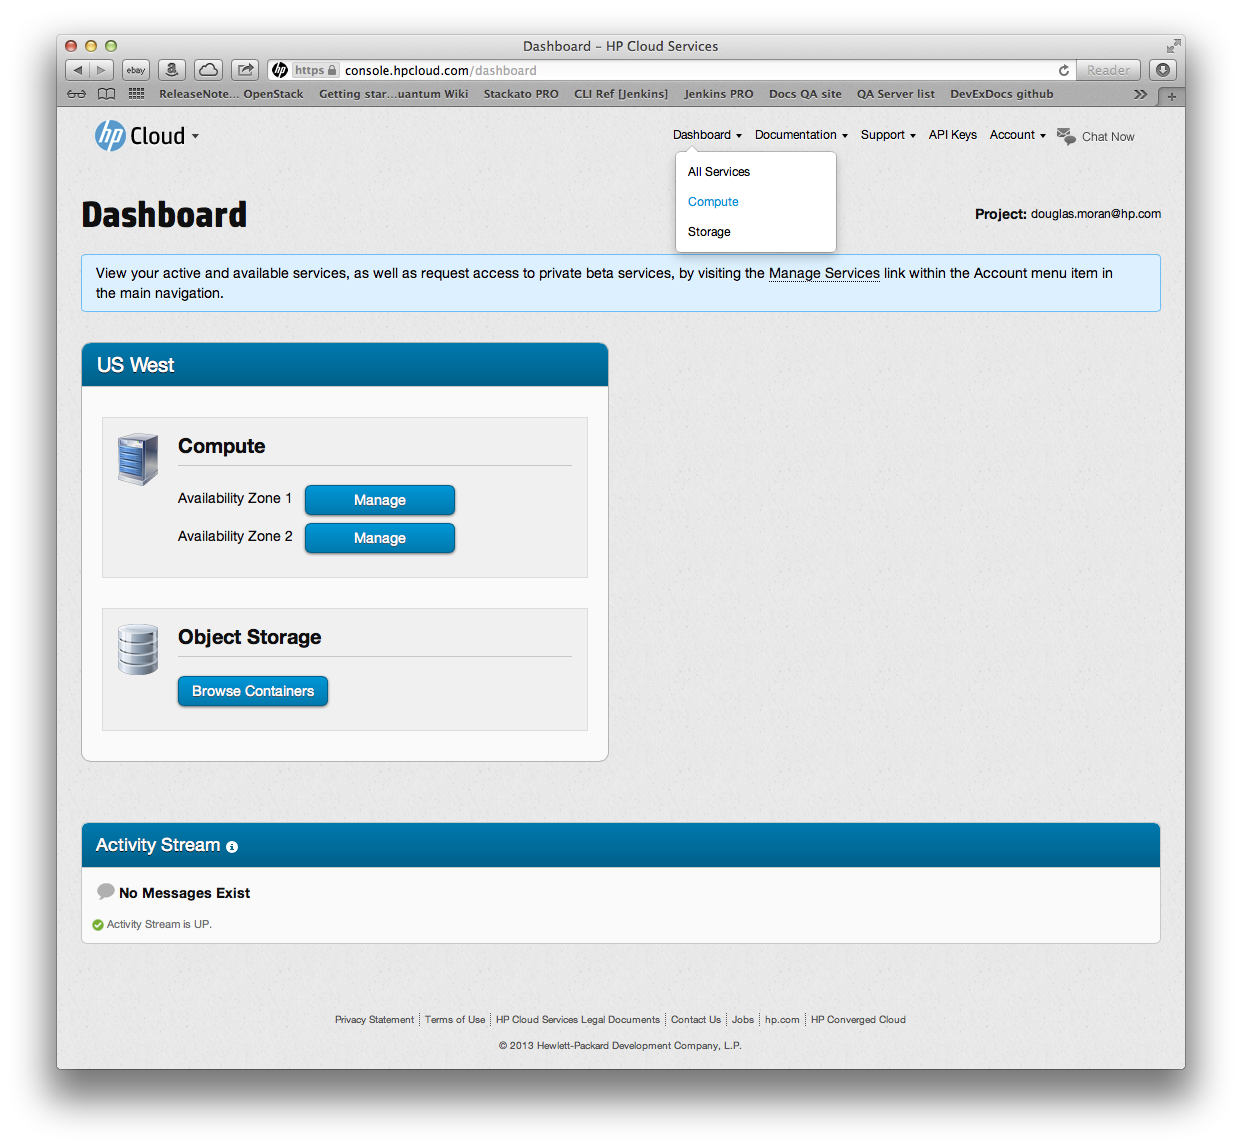
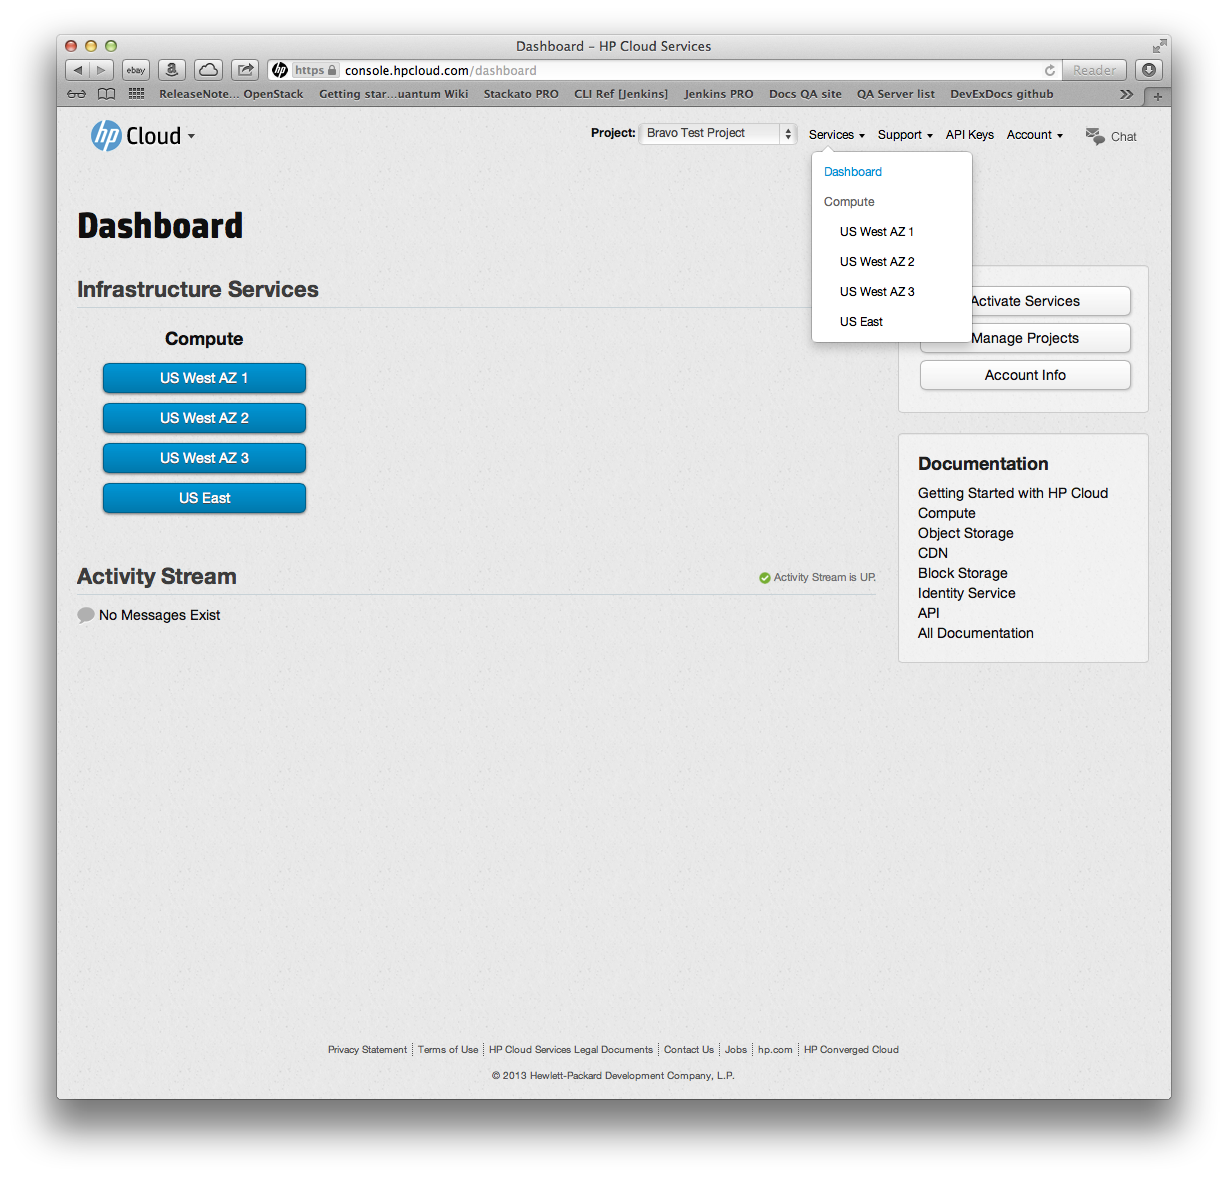
more screen shot changes

diff --git a/mc.dashboard.md b/mc.dashboard.md
@@ -11,30 +11,29 @@ This page provides you with an overview of the main management console (MC) dash
 
 * [Overview of the dashboard](#Overview)
 * [Compute pane](#compute)
-* [Object storage pane](#object-storage)
 * [Activity stream pane](#activitystream)
 
-**Note**:  The compute functionality available through the MC discussed in these pages is only for the US East region; this funtionality is not available for the US West region. 
+**Note**:  The compute functionality available through the MC discussed in these pages is only for the US East region; this functionality is not available for the US West region. 
 
 
 ##Overview of the dashboard## {#Overview}
 
-To access the main MC dashboard, from the `Dashboard` menu in the main menu bar select `All Services':
+To access the main MC dashboard, from the `Dashboard` menu in the main menu bar select `Dashboard`:
 
-<img src="media/main-dash-all-services.jpg" width="580" alt="" />
+<img src="media/main-dash-all-services.png" width="580" alt="" />
 
-The main MC dashboard displays all your active services.  In this example, the user has the compute service active for US West, an active object storage account, and his activity stream is displayed.  See the sections below for a bit more discussion!
+The main MC dashboard displays all your active services.  In this example, the user has the compute service active for several availability zones in the US West region and one for the US East region.  His activity stream is also displayed.  See the sections below for a bit more discussion!
 
 
 ##Compute pane## {#compute}
 
-The compute pane of the main MC dashboard displays your active availability zones (AZs), divided by region.  This user, for example, has two AZs in region `US West`.
+The compute pane of the main MC dashboard displays your active availability zones (AZs), divided by region.  This user, for example, has three compute instances in region `US West` and one in US East.
 
 <img src="media/main-dash.png" width="580" alt="" />
 
-If you want to go straight to the compute dashboard without first going through the main MC dashboard, just select the `Compute` option from the `Dashboard` item in the main menu bar.
+If you want to go straight to the compute dashboard without first going through the main MC dashboard, just select the appropriate `Compute` option from the `Services` item in the main menu bar.
 
-<img src="media/main-dash-compute-menu-detail.jpg" width="580" alt="" />
+<img src="media/main-dash-compute-us-east.png" alt="" />
 
 **Note**:  You can also navigate to a particular activity zone via the main menu bar.
 
@@ -45,7 +44,7 @@ You can manage your activity by clicking the `Manage` button next to the AZ you 
 For additional information about the compute functions available through the MC, surf on over to the [MC compute page](/mc/compute).  For an overview of HP Cloud's compute features, please see the [HP Cloud compute overview](/compute) page.
 
 
-##Object storage pane## {#object-storage}
+<!-- ##Object storage pane## {#object-storage}
 
 The object storage pane of the main MC dashboard appears directly below the [compute pane](#compute), divided by region.
 
@@ -57,9 +56,9 @@ To access your object storage containers, just click the `Browse Containers` but
 
 This user has two containers in the `US West` region: `Nova-stuff` (which contains one object) and `fog-rocks` (which is empty).  The information block for each container gives you the `Object Count`, `Size`, `Sharing` information, and indicates whether or not CDN is enabled.  You can also use the object storage details screen to create new public or private containers.
 
-<!--For additional information about the compute functions available through the MC, surf on over to the [MC object storage page](/mc/object-storage).  -->
+For additional information about the compute functions available through the MC, surf on over to the [MC object storage page](/mc/object-storage). 
 
-For an overview of HP Cloud's object storage features, please see the [HP Cloud object storage overview](/object-storage/) page.
+For an overview of HP Cloud's object storage features, please see the [HP Cloud object storage overview](/object-storage/) page. -->
 
 ##Activity stream pane## {#activitystream}
 

diff --git a/mc.md b/mc.md
@@ -14,27 +14,29 @@ HP Cloud consists of a bunch of useful services--compute, object storage, block 
 * [Account management](#AccountManagement)
 * [For further information](#FurtherInformation)
 
+**Note**:  The compute functionality available through the MC discussed in these pages is only for the US East region; this functionality is not available for the US West region. 
+
 
 ##Management console overview## {#Overview}
 
-The main dashboard for the MC displays all your active available services by default.  If you have activated the [compute](/compute/) and [object storage](/object-storage/) services, for example, your dashboard may look something like this:
+The main dashboard for the MC displays all your active available services by default.  If you have activated  [compute](/compute/) for example, your dashboard may look something like this:
 
-<img src="media/main-dash.jpg" width="580" alt="" />
+<img src="media/main-dash.png" width="580" alt="" />
 
 Each service is in its own pane on the dashboard; compute services in the compute pane, object storage in the object storage pane, and so on. 
 
-**Note**:  If you haven't activated a service, it is not displayed on the main default dashboad.
+**Note**:  If you haven't activated a service, it is not displayed on the main default dashboard.
 
 
 ##Navigating the services## {#NavigatingtheService}
 
-You can navigate to your preferred service in one of two easy ways.  First, you can simply choose your service (and availability zone) from the top-level menu bar.  For example, if you want to go to the compute dashboard, in the `Dashboard` menu select `Compute`:
+You can navigate to your preferred service in one of two easy ways.  First, you can simply choose your service (and availability zone) from the top-level menu bar.  For example, if you want to go to the compute dashboard, in the `Services` menu select the `Compute` service you want:
 
-<img src="media/main-dash-compute-menu-detail.png"  width="580" alt="" />
+<img src="media/main-dash-compute-menu-detail.png"  alt="" />
 
-You can also navigate by clicking the appropriate button in the service pane.  For example, if you want to navigate to the compute dashboard for US West for availability zone 1, in the compute pane click the `US East` button under `Compute`:
+You can also navigate by clicking the appropriate button in the service pane.  For example, if you want to navigate to the compute dashboard for US West for availability zone 1, in the compute pane click the `US East` button:
 
-<img src="media/main-dash-compute-us-east.png" width="580" alt="" />
+<img src="media/main-dash-compute-us-east.png" alt="" />
 
 You can navigate to any of the other services in a similar way.  <!-- To access the main object storage dashboard, in the `Dashboard` menu select `Object Storage`; to access the main relational databases as a service (DBaaS), in the `Dashboard` menu select `RDB`; and so on, for each active service.-->
 
